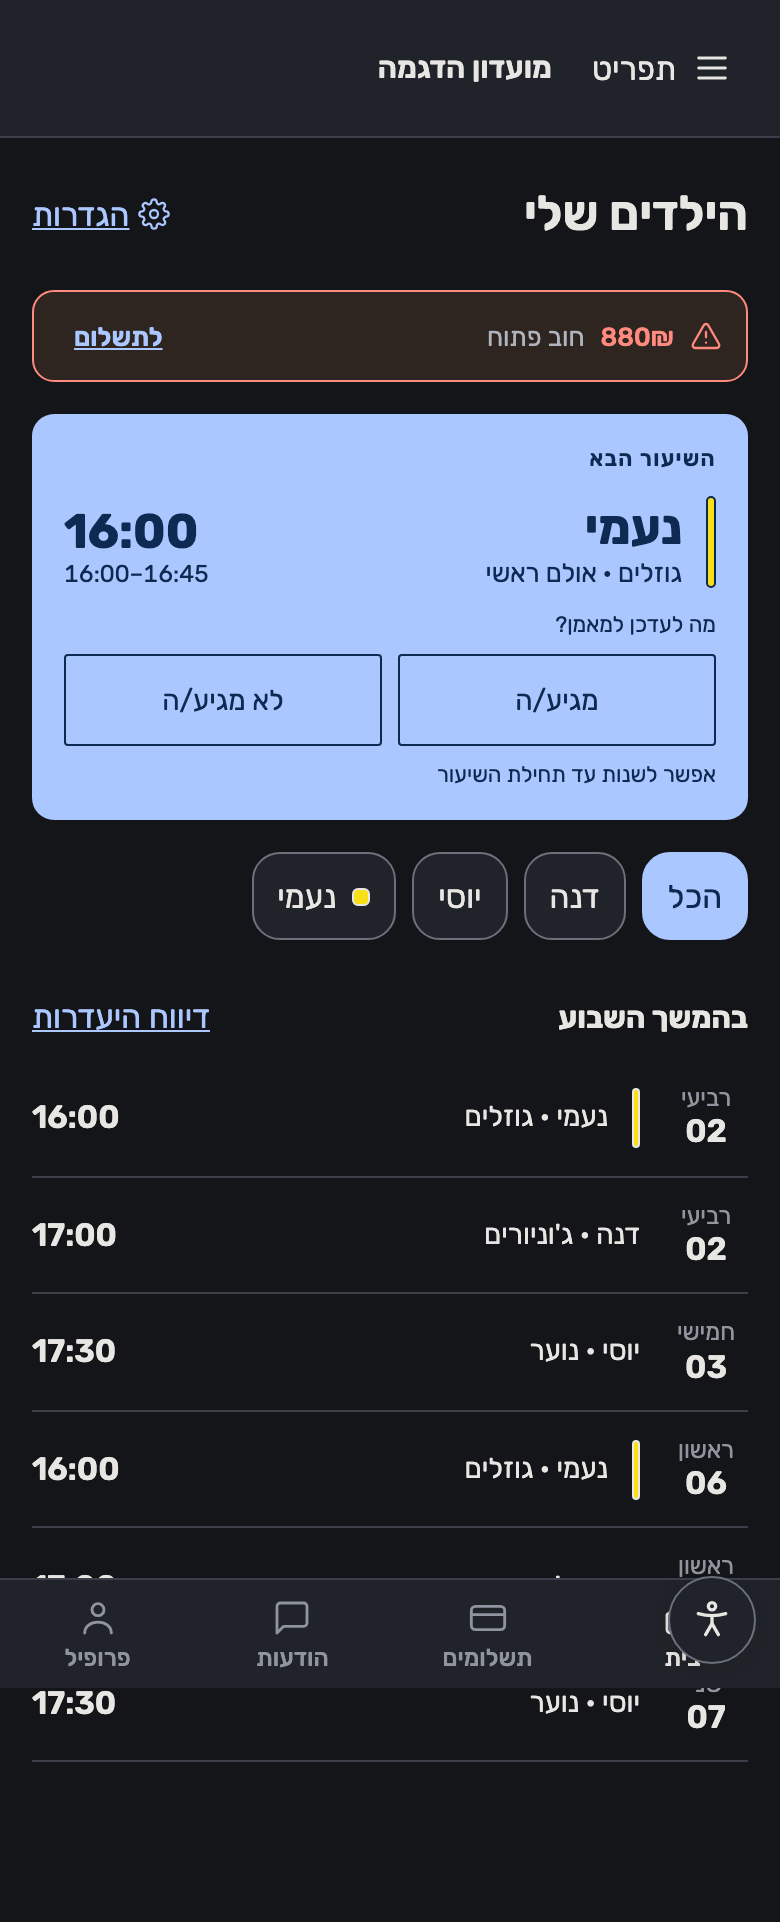
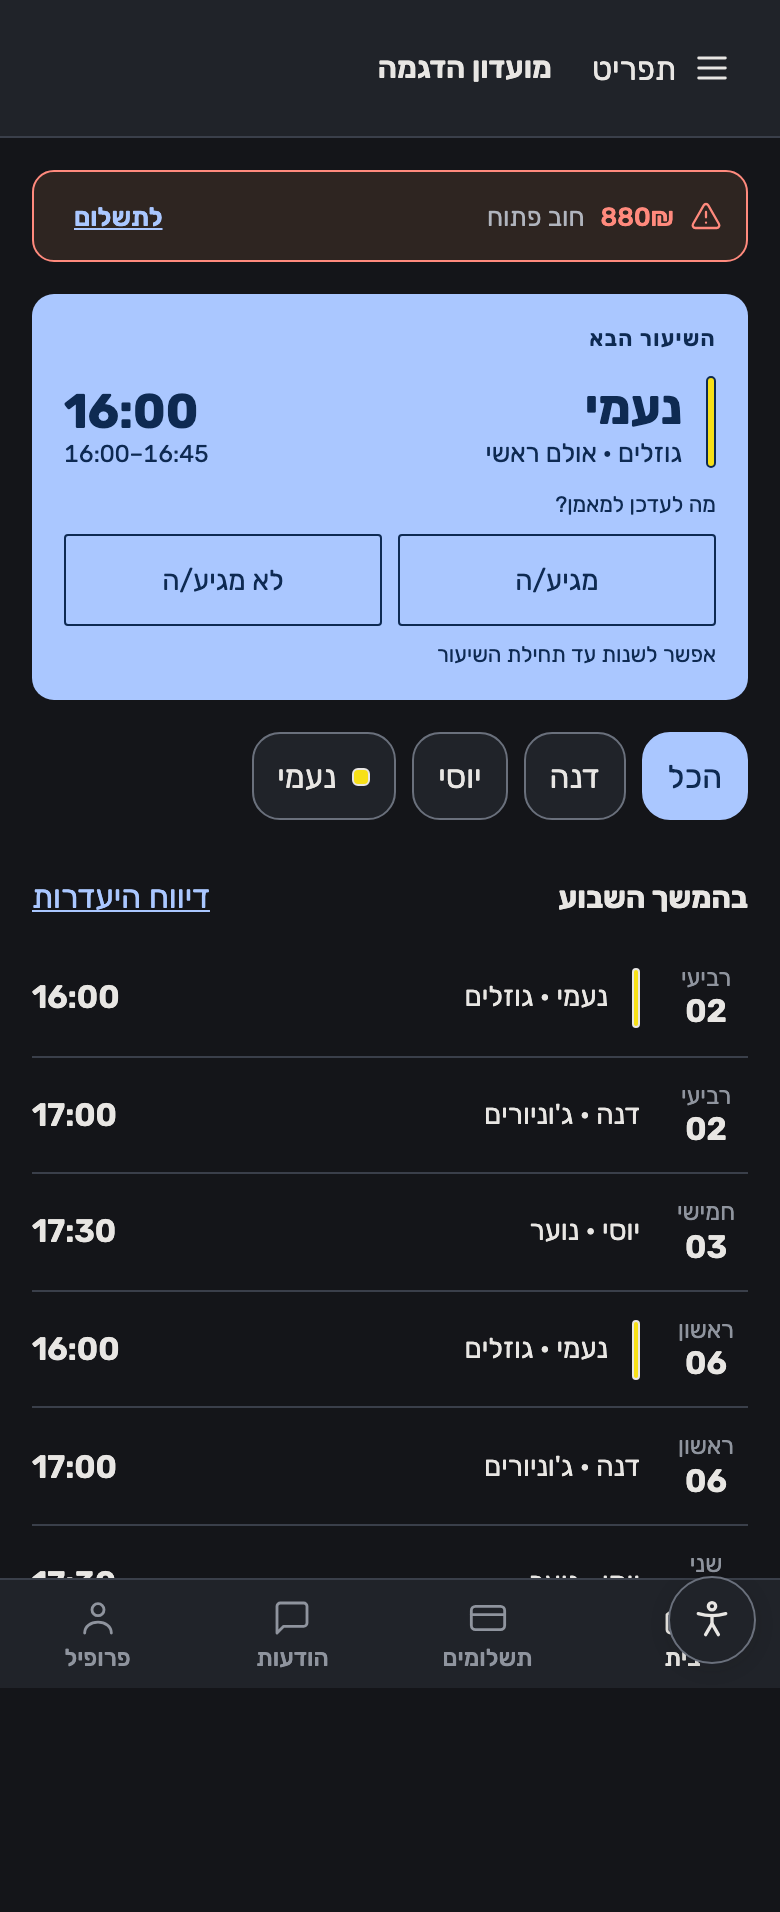
fix(parent): no title row, no second settings door, and content that clears the menu
Three things the owner spotted on the built screen.

**The title row is gone.** It said "הילדים שלי" on a screen whose first two
elements are a debt and a lesson, directly under an app bar that already names
where you are. The region keeps the name as `aria-label` — removing a visible
heading is not the same as removing a heading, and a region a screen reader
cannot identify is a different defect from one nobody needs to read.

**And the settings gear with it.** It was a second door to `#/profile` sitting a
thumb's width from the profile TAB that is on every screen. Two doors to one room,
one of them decorative.

**Content now clears the tab bar, which `AppShell` has always claimed it did.**
Its own docstring says "the main area pads itself so content clears it" and
`mainStyle` was `padding: var(--space-4)` and nothing else. `.studio-tabbar` is
`position: fixed` at the block-end edge, so it is out of flow: the last thing on
every phone screen in the product sat underneath it, however far you scrolled. On
this screen that was the final row of the week — reported as "there is a gap
between the end and the menu", which is exactly what a half-covered row looks
like. Main reserves 55px plus the safe-area inset plus a gap, and only when a tab
bar is actually passed, so the dashboard grows no phantom margin.

Measured after: last row ends at 709, the bar starts at 789.

diff --git a/web/apps/parent/src/features/home/ParentHome.tsx b/web/apps/parent/src/features/home/ParentHome.tsx
@@ -279,30 +279,16 @@ export function ParentHome({
   })()
 
   return (
-    <section aria-labelledby="parent-home-title" data-testid="parent-home" style={pageStyle}>
-      <header style={{ display: 'flex', alignItems: 'baseline', gap: 'var(--space-3)' }}>
-        <h1
-          id="parent-home-title"
-          style={{
-            margin: 0,
-            fontSize: 'var(--text-display)',
-            fontWeight: 600,
-            marginInlineEnd: 'auto',
-          }}
-        >
-          {t(locale, 'common.home.title')}
-        </h1>
-        {/* 1a's gear. A link and not an icon-only button with no name: an unnamed control
-            is unreachable to a screen reader (ui-rtl-a11y.md). */}
-        <a
-          href="#/profile"
-          data-testid="parent-home-settings"
-          style={headerLinkStyle}
-        >
-          <Icon name="settings" size={16} />
-          {t(locale, 'common.home.settings')}
-        </a>
-      </header>
+    <section aria-label={t(locale, 'common.home.title')} data-testid="parent-home" style={pageStyle}>
+      {/* No visible title row, and no settings gear (owner, 2026-09-01).
+       *
+       * The heading said "הילדים שלי" on a screen whose first two elements are a debt and
+       * a lesson, and the app bar directly above it already names where you are. The gear
+       * was a second route to `#/profile` sitting a thumb's width from the profile TAB
+       * that is on every screen — two doors to one room, one of them decorative.
+       *
+       * The section keeps the name as `aria-label`, so a screen reader still hears which
+       * region this is. Removing a visible heading is not the same as removing a heading. */}
 
       {/* 1a's alert cards. The health card is the §6.1 gate's job now — a family who owes
           a declaration never reaches this screen — so the debt card is the one that can

diff --git a/web/packages/ui/src/shell/AppShell.tsx b/web/packages/ui/src/shell/AppShell.tsx
@@ -52,6 +52,24 @@ const mainStyle: CSSProperties = {
   flex: 1,
 }
 
+/**
+ * The clearance the docstring below has always PROMISED and never had.
+ *
+ * `.studio-tabbar` is `position: fixed` at the block-end edge, so it is out of flow and
+ * the last thing on any screen sat underneath it — on the parent home that was the final
+ * row of the week, permanently half-hidden however far you scrolled. Reported as "there
+ * is a gap between the end and the menu", which is exactly what it looks like.
+ *
+ * 55px is the bar, `env(safe-area-inset-bottom)` is the home indicator on a notched
+ * phone, and `--space-4` keeps the last row off the hairline rather than touching it.
+ * Applied only when a tab bar is actually passed: the dashboard has none and must not
+ * grow a phantom margin.
+ */
+const mainWithTabBarStyle: CSSProperties = {
+  ...mainStyle,
+  paddingBlockEnd: 'calc(55px + env(safe-area-inset-bottom, 0px) + var(--space-4))',
+}
+
 /* Pushed to the inline-end — the far side from the nav, which in an RTL document is the
    left. A flex row so the search and the studio switcher sit on one line. */
 const spacerStyle: CSSProperties = {
@@ -163,7 +181,7 @@ export function AppShell({
               footer={drawerFooter}
             />
           </div>
-          <main style={mainStyle}>{children}</main>
+          <main style={tabBarNode ? mainWithTabBarStyle : mainStyle}>{children}</main>
         </div>
       </div>
       {tabBarNode}

diff --git a/web/apps/parent/src/features/home/ParentHome.test.tsx b/web/apps/parent/src/features/home/ParentHome.test.tsx
@@ -54,14 +54,17 @@ function renderIn(
 }
 
 describe('ParentHome', () => {
-  it('renders 1a title', () => {
+  it('names the region without printing a heading on it', () => {
+    // Owner, 2026-09-01: the visible "הילדים שלי" title went, along with the settings
+    // gear beside it. The app bar above already names where you are, and the gear was a
+    // second door to `#/profile` a thumb's width from the profile TAB.
+    //
+    // The NAME did not go — a region a screen reader cannot identify is a different
+    // defect from a heading nobody needs to read.
     render(<ParentHome locale="he" />)
-    expect(screen.getByRole('heading', { level: 1, name: t('he', 'common.home.title') })).toBeInTheDocument()
-  })
-
-  it('gives the settings affordance an accessible name', () => {
-    render(<ParentHome locale="he" />)
-    expect(screen.getByTestId('parent-home-settings')).toHaveAccessibleName()
+    expect(screen.getByTestId('parent-home')).toHaveAccessibleName(t('he', 'common.home.title'))
+    expect(screen.queryByRole('heading', { level: 1 })).toBeNull()
+    expect(screen.queryByTestId('parent-home-settings')).toBeNull()
   })
 
   it('raises the debt alert with its CTA when the family owes money', async () => {
